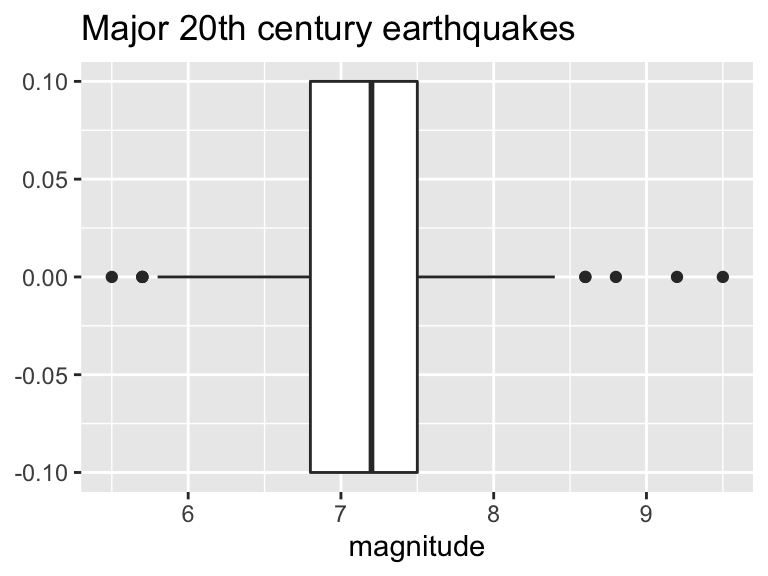
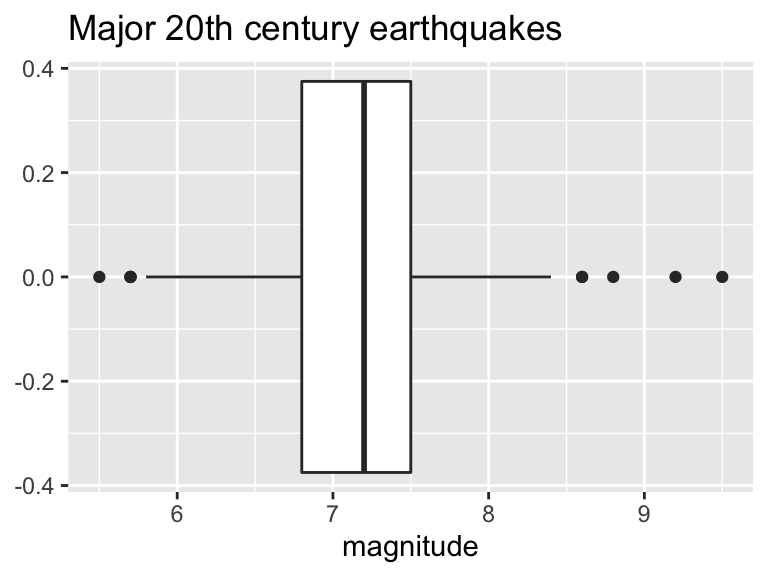
data viz graphs error

Changed region(s): [[0.0312, 0.0, 0.9688, 0.9062], [0.4375, 0.9375, 0.625, 1.0], [0.75, 0.4688, 0.8125, 0.5]]

diff --git a/dataviz.html b/dataviz.html
@@ -486,7 +486,7 @@ div.tocify {
 <pre class="r"><code>ggplot(data = df) +
   geom_histogram(aes(x=richter),col=&quot;white&quot;,fill=&quot;dodgerblue&quot;,bins=16)+
   geom_vline(aes(xintercept=mean(richter)),
-             color=&quot;blue&quot;, linetype=&quot;dashed&quot;, size=1)</code></pre>
+             color=&quot;brown&quot;, linetype=&quot;dashed&quot;, size=1)</code></pre>
 <p><img src="dataviz_files/figure-html/unnamed-chunk-9-1.png" width="480" /></p>
 <p>We can add non-vertical lines to plots as well, and go through this in the scatter plots section of this tutorial.</p>
 </div>
@@ -601,7 +601,7 @@ The gray bar of varying thickness surrounding the least squares regression line 
 <p>Key layer: Use the <code>geom_boxplot()</code> plot type command.</p>
 </blockquote>
 <pre class="r"><code>ggplot(data = df) +
-  geom_boxplot(aes(x=richter),width=.2) +
+  geom_boxplot(aes(x=richter)) +
   xlab(&quot;magnitude&quot;) + 
   ggtitle(&quot;Major 20th century earthquakes&quot;)</code></pre>
 <p><img src="dataviz_files/figure-html/unnamed-chunk-20-1.png" width="384" /></p>
